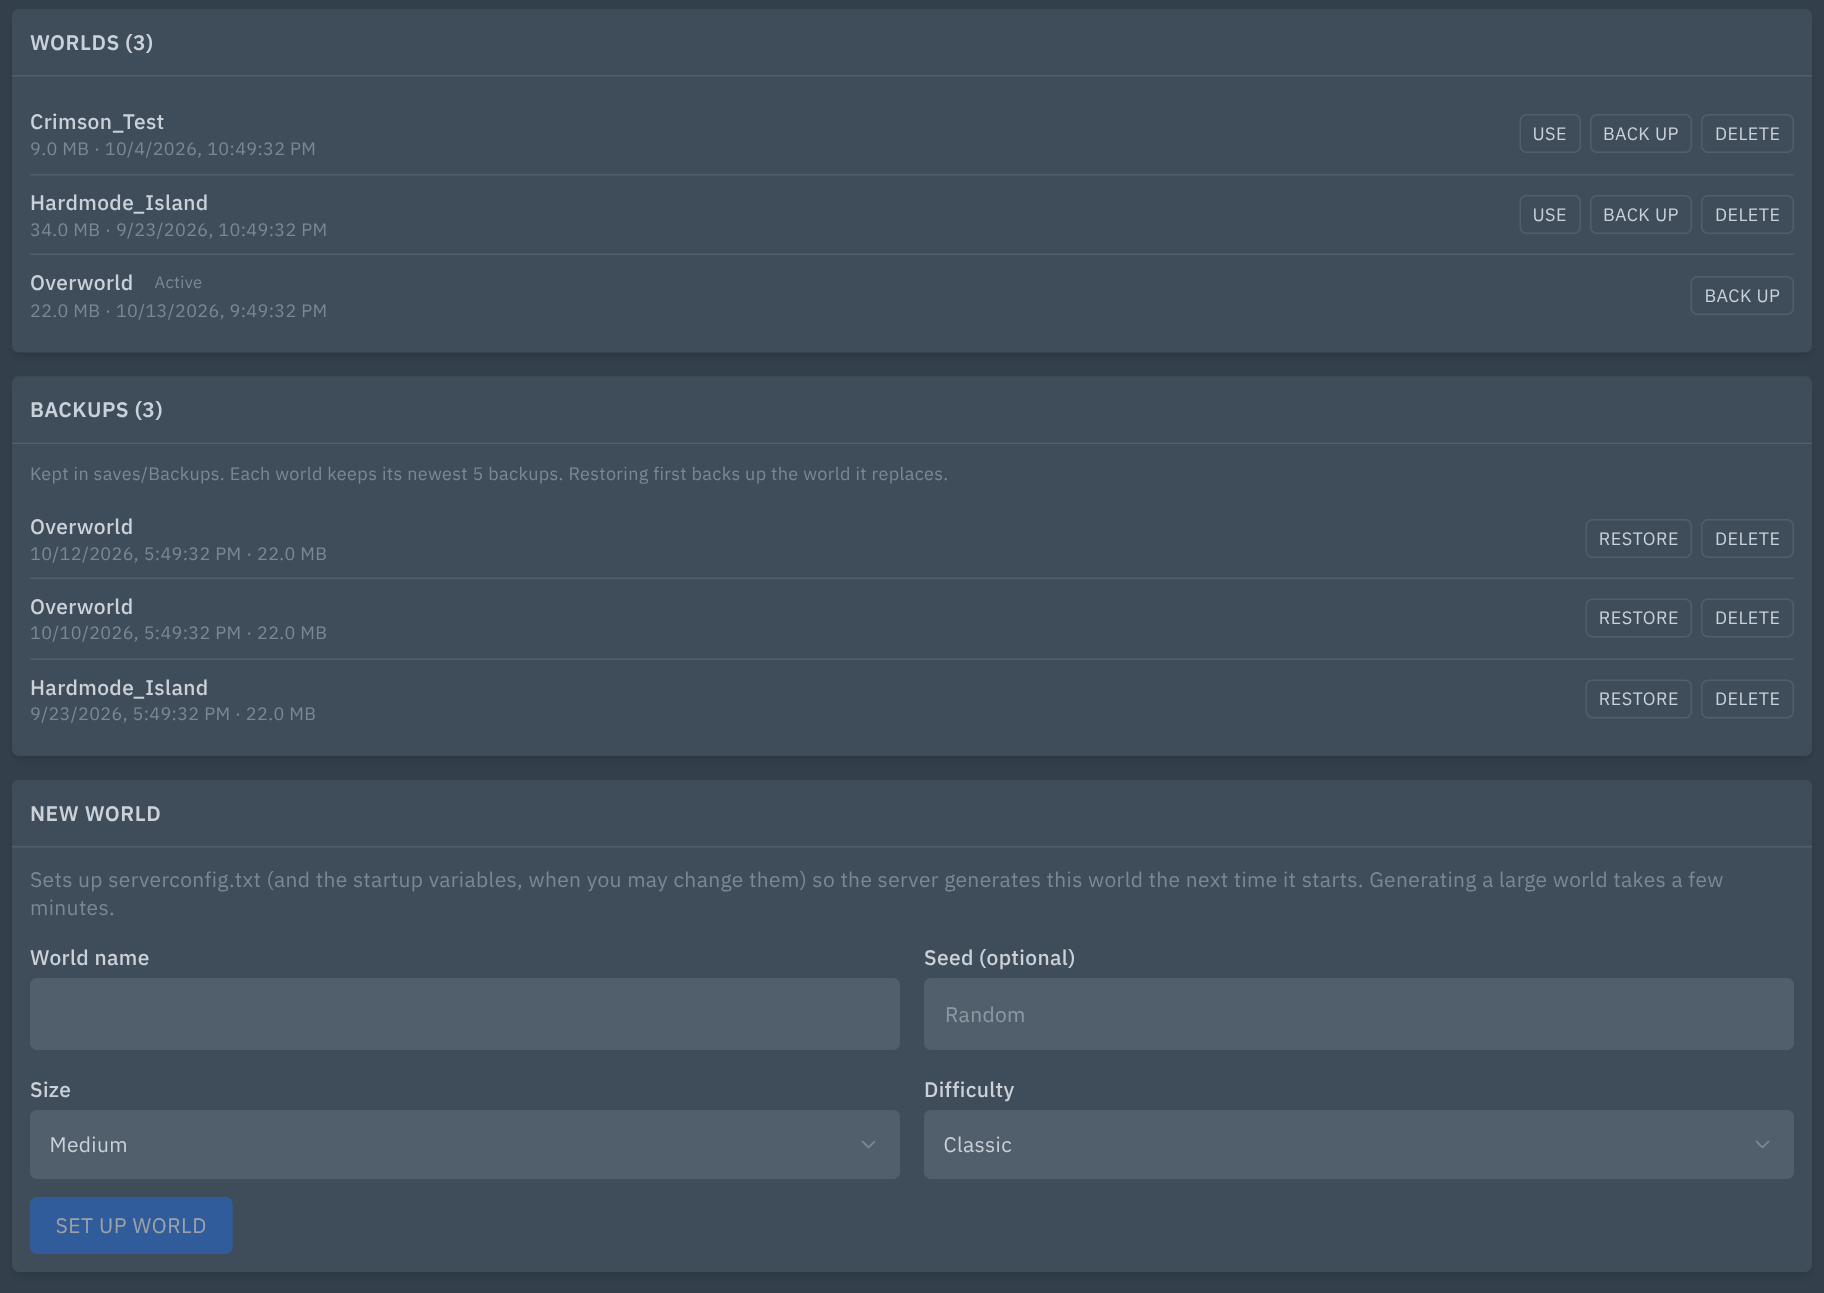
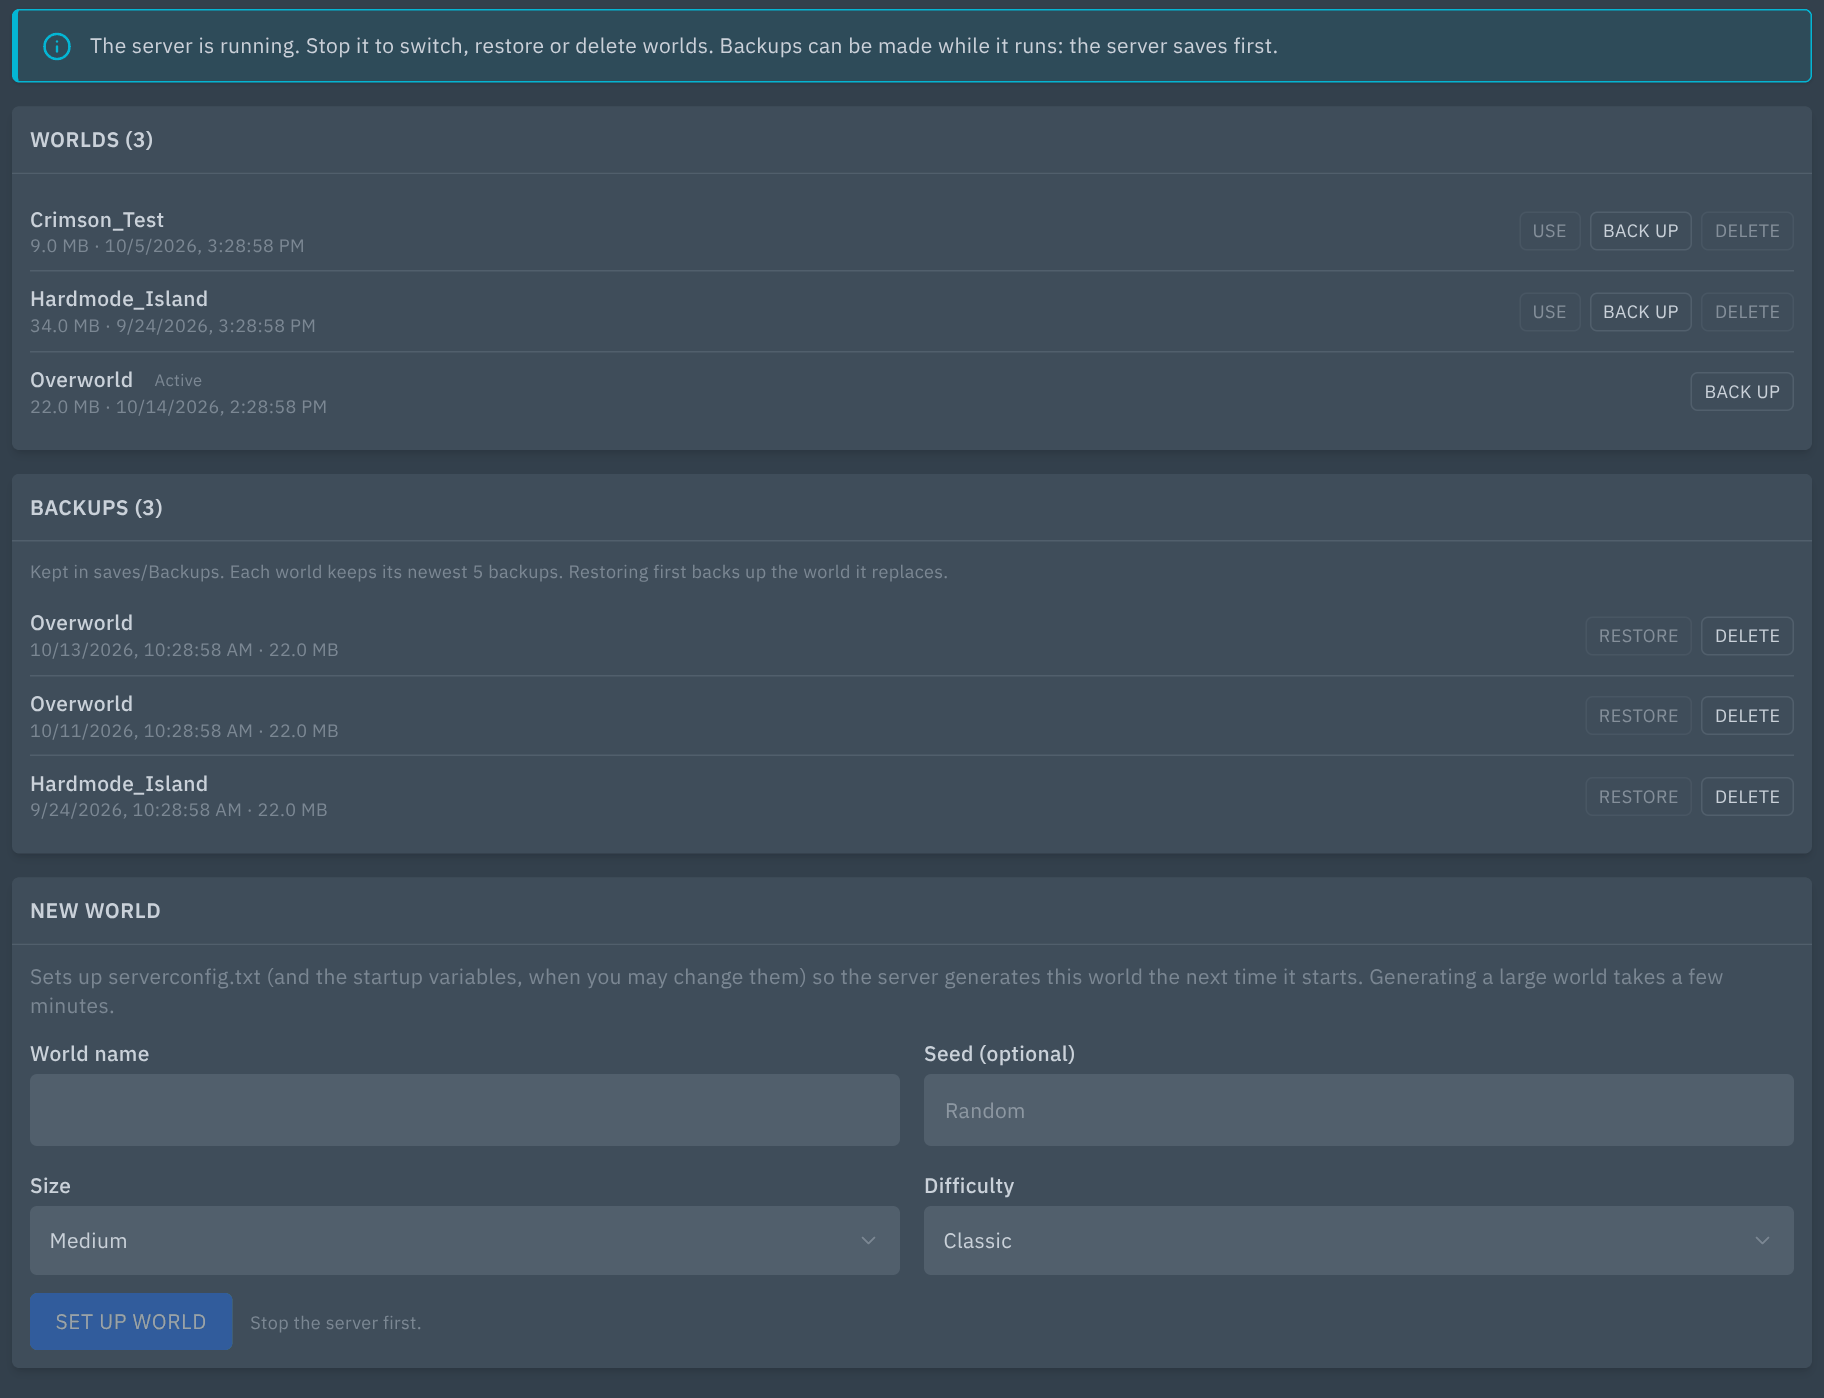
Screenshots for the new extensions

diff --git a/README.md b/README.md
@@ -77,7 +77,7 @@ More games are on the way. [Ask for yours](https://github.com/Enforcer0952/ptero
 | ![Console autocomplete](docs/screenshots/mc-console-gamemode.png) **Minecraft Console**: command autocomplete and syntax hints | ![Player names](docs/screenshots/mc-console-player.png) Player names and plugin commands |
 | ![Version page](docs/screenshots/mc-version-page.png) **Minecraft Version**: switch software and version | ![Change plan](docs/screenshots/mc-version-plan.png) See exactly what changes before it happens |
 | ![Worlds](docs/screenshots/mc-world-worlds.png) **Minecraft World**: backups, resets, hardcore runs | ![server.properties form](docs/screenshots/mc-world-properties.png) A real form for server.properties |
-| ![Proxy page](docs/screenshots/mc-network-proxy.png) **Minecraft Network**: every backend checked and fixable | |
+| ![Proxy page](docs/screenshots/mc-network-proxy.png) **Minecraft Network**: every backend checked and fixable | ![Crash verdicts](docs/screenshots/mc-crash-reports.png) **Minecraft Crashes**: what broke, who did it, how to fix it |
 
 </details>
 
@@ -98,6 +98,25 @@ More games are on the way. [Ask for yours](https://github.com/Enforcer0952/ptero
 |---|---|
 | ![Terraria players](docs/screenshots/terraria-players.png) Online players and bans | ![Terraria admin](docs/screenshots/terraria-admin.png) Save, settle, time of day and broadcast |
 | ![Terraria worlds](docs/screenshots/terraria-worlds.png) Worlds with backups and new worlds | ![Terraria settings](docs/screenshots/terraria-settings.png) serverconfig.txt as a form |
+
+</details>
+
+<details open>
+<summary><b>Valheim and Palworld</b></summary>
+
+| | |
+|---|---|
+| ![Valheim mods](docs/screenshots/valheim-mods.png) **Valheim Tools**: Thunderstore mods for BepInEx | ![Valheim worlds](docs/screenshots/valheim-worlds.png) Worlds and backups |
+| ![Palworld settings](docs/screenshots/palworld-settings.png) **Palworld Tools**: settings as a form, with presets | ![Palworld players](docs/screenshots/palworld-players.png) Online players through the REST API |
+
+</details>
+
+<details open>
+<summary><b>Every game</b></summary>
+
+| | |
+|---|---|
+| ![Crash Guard banner](docs/screenshots/crash-guard-banner.png) **Crash Guard**: a crash loop is stopped and explained | ![Crash Guard page](docs/screenshots/crash-guard-page.png) Limits per server and the crash log |
 
 </details>
 

diff --git a/extensions/valheim-tools/README.md b/extensions/valheim-tools/README.md
@@ -2,6 +2,11 @@
 
 Adds a **Players** card and a **Server settings** card under the console, plus **Access lists**, **Worlds** and **Mods** pages, to Valheim dedicated servers in Pterodactyl 2.0.
 
+![valheim players](../../docs/screenshots/valheim-players.png)
+![valheim worlds](../../docs/screenshots/valheim-worlds.png)
+![valheim mods](../../docs/screenshots/valheim-mods.png)
+![valheim lists](../../docs/screenshots/valheim-lists.png)
+
 ## Features
 
 - **Players:** who is online, read from the console, and who was seen recently. Each player with a Steam ID has **Make admin**, **Permit** and **Ban** buttons that edit the access list files. The first and last time a player was seen is kept, so the names show up next to the IDs on the Access lists page.

diff --git a/extensions/palworld-tools/README.md b/extensions/palworld-tools/README.md
@@ -2,6 +2,10 @@
 
 Adds a settings editor, a **Players** card, world backups and the ban list to Palworld servers in Pterodactyl 2.0.
 
+![palworld settings](../../docs/screenshots/palworld-settings.png)
+![palworld players](../../docs/screenshots/palworld-players.png)
+![palworld saves](../../docs/screenshots/palworld-saves.png)
+
 ## Features
 
 - **Settings:** every option of `PalWorldSettings.ini` as a form with labels, help text, defaults and checks. Presets for Vanilla, 2x rates, 5x rates and Casual show what changes before you apply them. A raw editor is there for anything else.

diff --git a/extensions/crash-guard/README.md b/extensions/crash-guard/README.md
@@ -4,6 +4,9 @@ Adds **Crash Guard** to Pterodactyl 2.0. When a server crashes again and again, 
 
 It works on **every egg** (Minecraft, ARK, Terraria, anything else): it only looks at the server's power state.
 
+![crash guard banner](../../docs/screenshots/crash-guard-banner.png)
+![crash guard page](../../docs/screenshots/crash-guard-page.png)
+
 ## Features
 
 - **Per server on or off**, and a limit of N crashes within M minutes (default 3 in 10). Servers are unguarded until someone turns it on, or an admin turns it on for all servers.

diff --git a/extensions/mc-crash/README.md b/extensions/mc-crash/README.md
@@ -2,6 +2,9 @@
 
 Adds a **Crashes** page to Minecraft servers in Pterodactyl 2.0. It reads crash reports and log errors and gives each one a one-line verdict with a plain fix.
 
+![mc crash reports](../../docs/screenshots/mc-crash-reports.png)
+![mc crash logs](../../docs/screenshots/mc-crash-logs.png)
+
 ## Features
 
 - **Crash reports:** lists `crash-reports/*.txt`, the crash sections of Forge and NeoForge `logs/debug.log`, and `hs_err_pid*.log` in the server folder. Newest first, with time, verdict and severity.
